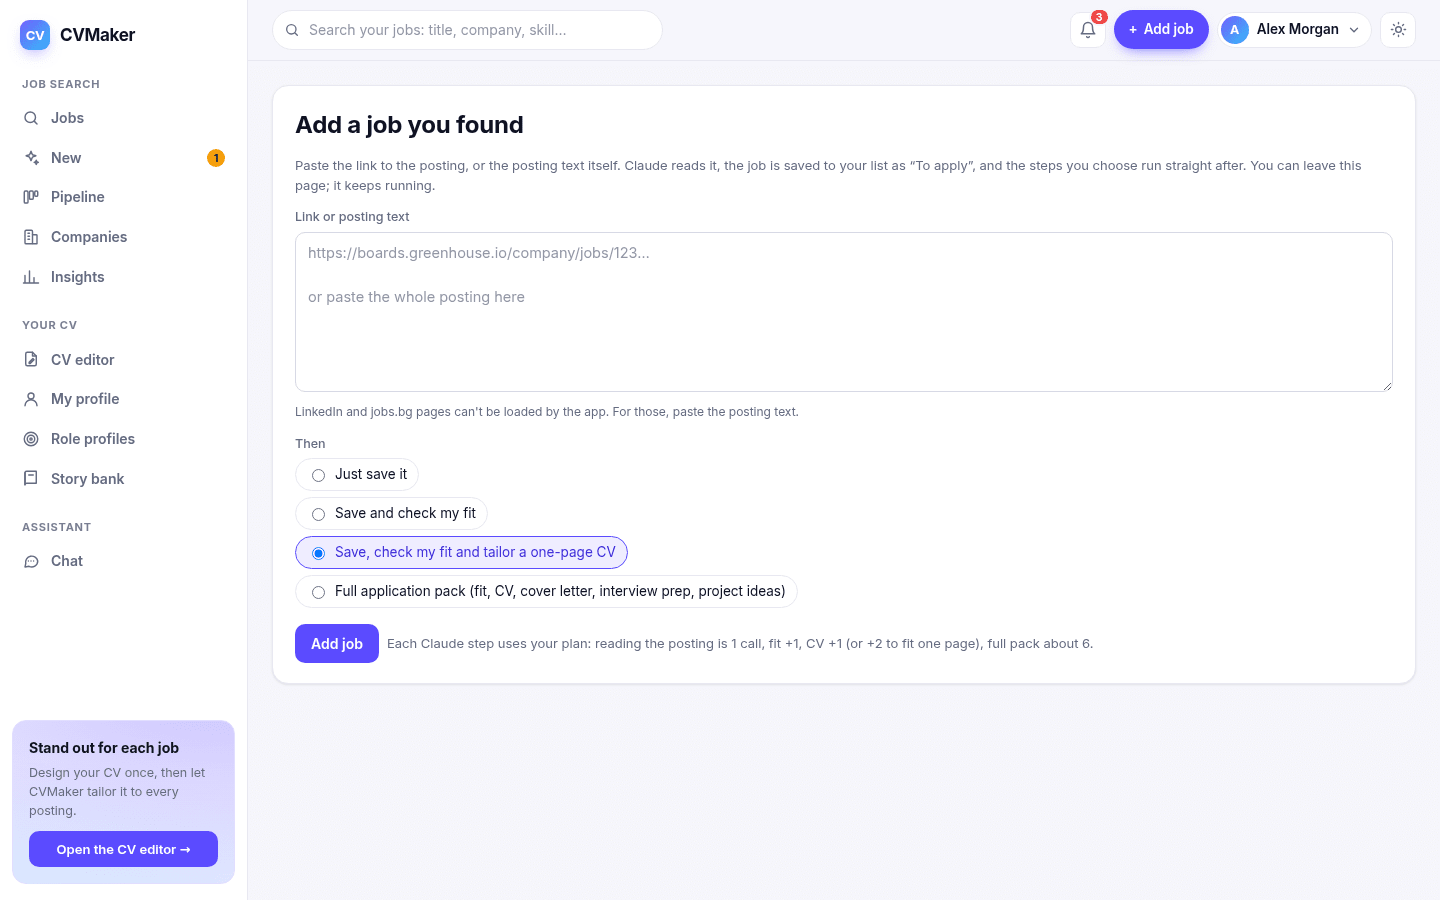
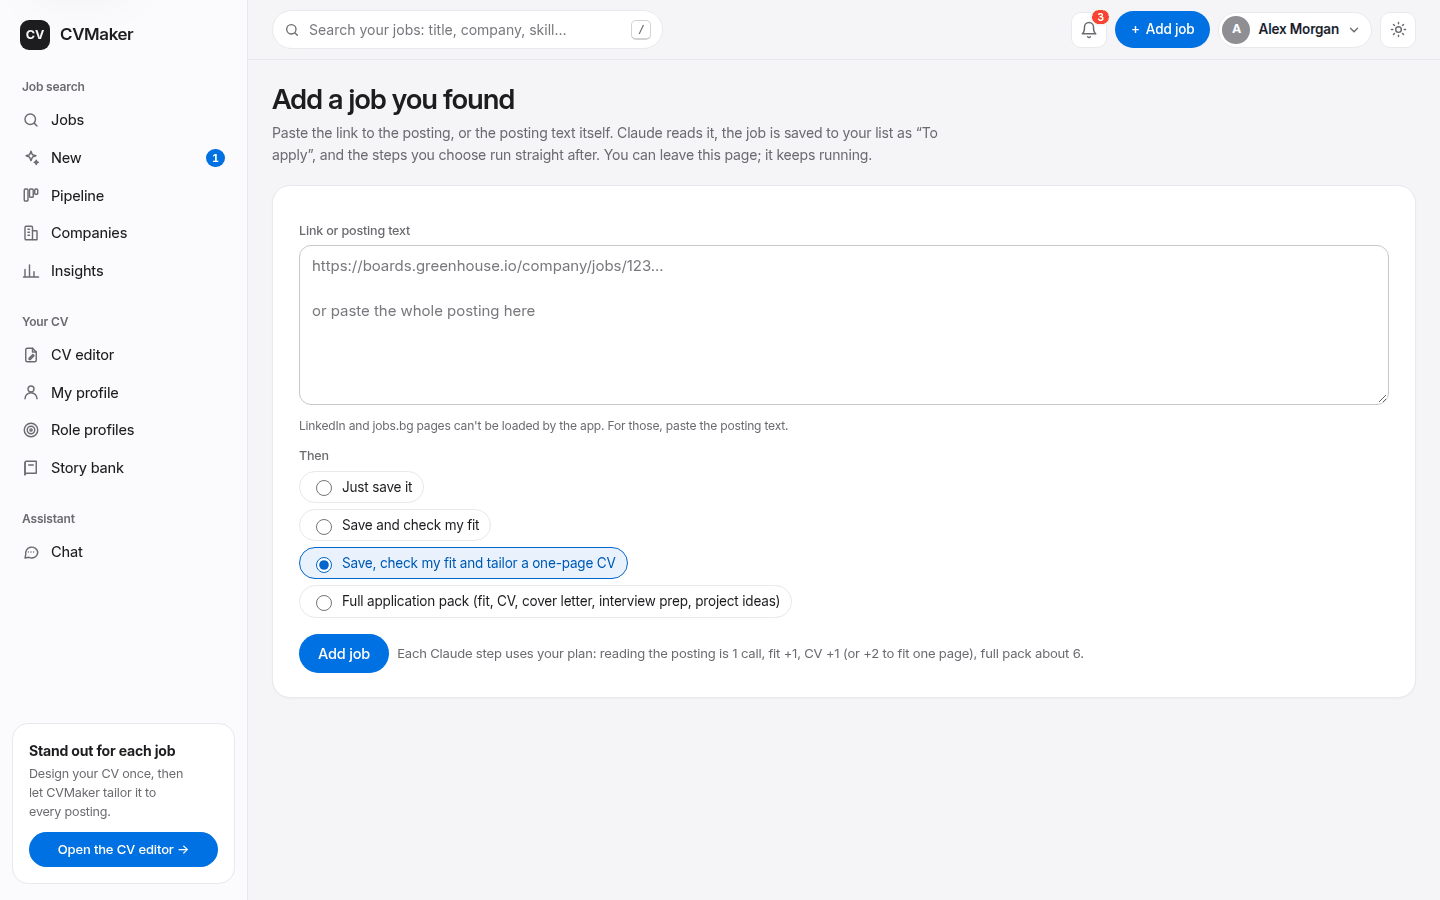
Docs: new screenshots of the redesigned app
Retaken from a seeded demo profile (Alex Morgan, fictional companies) in light
and dark. The README grid gains the dark theme; the editor caption follows the
new left panel.

diff --git a/docs/screenshots.md b/docs/screenshots.md
@@ -26,7 +26,7 @@ The screenshots use a made-up demo profile ("Alex Morgan") and fictional compani
 
 ![Tailored CV](screenshots/cv.png)
 
-**CV editor**: click anything on the page and the toolbar changes it (font, size, colour, spacing, box size, ✦ Rewrite with Claude); templates, elements, text, uploads, layout, versions, layers and history on the left.
+**CV editor**: click anything on the page and the toolbar changes it (font, size, colour, spacing, effects, box size, ✦ Rewrite with Claude), with the path of what is selected at the bottom; content, insert, design (templates), layout, versions, layers and history on the left.
 
 ![CV editor](screenshots/editor.png)
 

diff --git a/README.md b/README.md
@@ -43,6 +43,7 @@ Everything is described in the [user guide](docs/guide.md).
 |---|---|
 | ![Job page](docs/screenshots/job.png) | ![CV editor](docs/screenshots/editor.png) |
 | ![Application pipeline](docs/screenshots/pipeline.png) | ![Insights: your gaps](docs/screenshots/insights-gaps.png) |
+| ![Jobs list, dark theme](docs/screenshots/jobs-dark.png) | ![CV editor, dark theme](docs/screenshots/editor-dark.png) |
 
 The screenshots use a made-up demo profile and fictional companies. [All screenshots](docs/screenshots.md)
 
